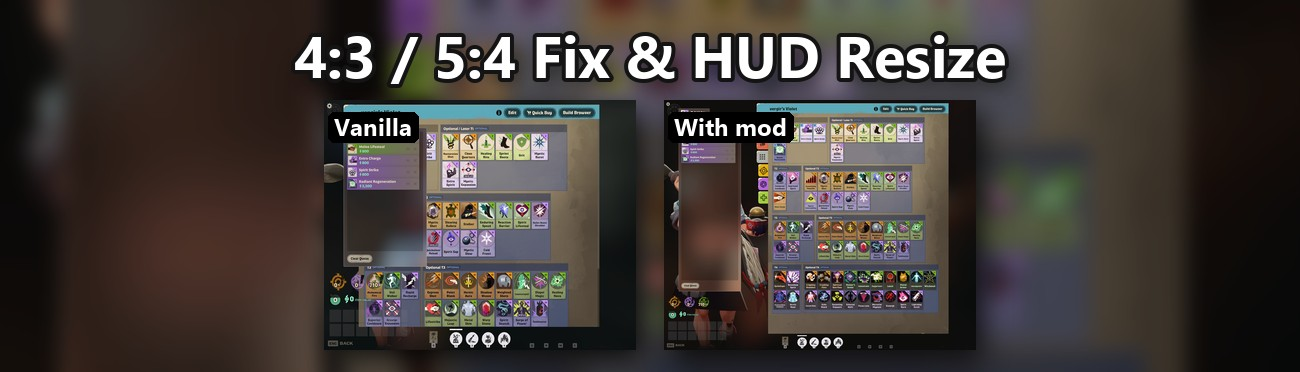
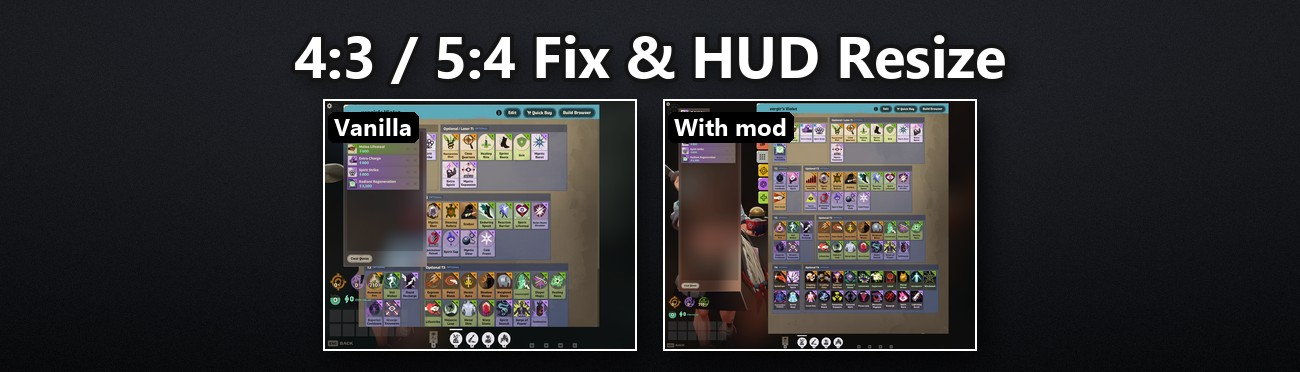
Gallery: neutral background, per-panel highlights, dialogue player
Comparisons sit on a plain dark backdrop with a thin edge instead of a blurred copy of the shot. The HUD image rings the minimap (oval in vanilla, round with the mod) and boxes the mod's health bar. Hero select and post-match graphs are dropped (vanilla handles them well); the dialogue player is added.

diff --git a/docs/make_images.py b/docs/make_images.py
@@ -36,7 +36,7 @@ FRAMES = {
 # 1.1.0 shots (5:4): the 2880x2304 game frame, top edge found from the Steam window around it
 for _k, _t in {"v_54_shop": 40, "v_54_catalog": 40, "v_54_roster": 34, "v_54_graphs": 47, "v_54_profile": 50,
                "v_54_hud": 34, "m_54_shop": 44, "m_54_catalog": 49, "m_54_roster": 43, "m_54_graphs": 37,
-               "m_54_profile": 43, "m_54_hud": 46}.items():
+               "m_54_profile": 43, "m_54_hud": 46, "m_54_dialogue": 37, "v_54_dialogue": 44}.items():
     FRAMES[_k] = (0, _t, 2878, _t + 2304)
 
 # Areas blurred before cropping (raw snip pixels): the author's friend code on the player page.
@@ -78,6 +78,11 @@ def box(img, b, k=1.0):
     ImageDraw.Draw(img).rounded_rectangle(b, round(14 * k), outline=GOLD, width=max(3, round(5 * k)))
 
 
+def ring(img, b, k=1.0):
+    """The same highlight as an ellipse (b is its bounding box), for round things like the minimap."""
+    ImageDraw.Draw(img).ellipse(b, outline=GOLD, width=max(3, round(5 * k)))
+
+
 def label(img, text, xy, size, anchor="la"):
     """White text on a dark pill."""
     d = ImageDraw.Draw(img, "RGBA")
@@ -97,12 +102,29 @@ def outlined(img, text, xy, size, anchor="mm"):
     ImageDraw.Draw(img).text(xy, text, font=f, fill="white", anchor=anchor, stroke_width=4, stroke_fill=(20, 20, 20))
 
 
-def shadowed_paste(dst, src, xy):
+def shadowed_paste(dst, src, xy, edge=False):
     x, y = xy
     sh = Image.new("RGBA", dst.size, (0, 0, 0, 0))
     ImageDraw.Draw(sh).rectangle((x + 6, y + 10, x + src.width + 6, y + src.height + 10), fill=(0, 0, 0, 210))
     dst.alpha_composite(sh.filter(ImageFilter.GaussianBlur(14)))
     dst.paste(src, (x, y))
+    if edge:   # a thin light frame so the shot's border reads against a dark background
+        ImageDraw.Draw(dst, "RGBA").rectangle((x - 1, y - 1, x + src.width, y + src.height),
+                                              outline=(255, 255, 255, 70), width=2)
+
+
+def neutral_backdrop(w=W, h=H):
+    """A plain dark backdrop: charcoal, a little lighter at the top, soft vignette and fine grain."""
+    y = np.linspace(0, 1, h)[:, None, None]
+    x = np.linspace(-1, 1, w)[None, :, None]
+    base = np.array([38, 41, 47]) * (1 - y) + np.array([15, 16, 19]) * y
+    r = np.sqrt(x ** 2 + ((y - 0.45) * 1.7) ** 2)
+    base = base * (1 - 0.35 * np.clip(r - 0.35, 0, 1))
+    base = base + np.random.default_rng(1).normal(0, 2.0, (h, w, 1))
+    return Image.fromarray(np.clip(base, 0, 255).astype(np.uint8)).convert("RGBA")
+
+
+STYLE = "neutral"   # "blur": a blurred copy of the shot behind the pair; "neutral": the plain dark backdrop
 
 
 def backdrop(key, dim=0.7, blur=10):
@@ -121,20 +143,23 @@ def save(img, name):
     print(f"{name:22} {img.width}x{img.height} {os.path.getsize(os.path.join(OUT, name)) // 1024:5} KB")
 
 
-def pair(keys, labels, out, title, crop=None, boxes=(), top=150, gap=40, margin=40, bright=1.0):
-    """Two shots side by side on a blurred backdrop, labelled; crop and boxes are in raw frame pixels."""
-    img = backdrop(keys[1])
+def pair(keys, labels, out, title, crop=None, boxes=(), top=150, gap=40, margin=40, bright=1.0, marks=((), ())):
+    """Two shots side by side on a backdrop (STYLE), labelled; crop, boxes (on both panels) and marks (per panel:
+    ("box" | "ring", bounds)) are in raw frame pixels."""
+    neutral = STYLE == "neutral"
+    img = neutral_backdrop() if neutral else backdrop(keys[1])
     ims = [shot(k).crop(crop) if crop else shot(k) for k in keys]
     s = min((W - 2 * margin - gap) / (2 * ims[0].width), (H - top - margin) / ims[0].height)
     pw, ph = round(ims[0].width * s), round(ims[0].height * s)
     x = (W - 2 * pw - gap) // 2
     y = top + (H - top - margin - ph) // 2
-    for im, lbl in zip(ims, labels):
+    ox, oy = (crop[0], crop[1]) if crop else (0, 0)
+    for im, lbl, own in zip(ims, labels, marks):
         p = ImageEnhance.Brightness(im.resize((pw, ph), Image.LANCZOS)).enhance(bright).convert("RGBA")
-        for b in boxes:
-            ox, oy = (crop[0], crop[1]) if crop else (0, 0)
-            box(p, tuple(round((v - o) * s) for v, o in zip(b, (ox, oy, ox, oy))), ph / 1080)
-        shadowed_paste(img, p, (x, y))
+        for kind, b in [("box", b) for b in boxes] + list(own):
+            (ring if kind == "ring" else box)(p, tuple(round((v - o) * s) for v, o in zip(b, (ox, oy, ox, oy))),
+                                              ph / 1080)
+        shadowed_paste(img, p, (x, y), edge=neutral)
         label(img, lbl, (x + 18, y + 18), 44)
         x += pw + gap
     if title.startswith("#"):
@@ -145,10 +170,31 @@ def pair(keys, labels, out, title, crop=None, boxes=(), top=150, gap=40, margin=
     return img
 
 
-# Health bar at size 1.0: 1.5 px per HUD unit, container at x 315, 300 wide, 456 tall, 20 above the bottom of the
-# canvas (1440 units tall on 4:3, 1536 on 5:4).
-HEALTH_43 = (440, 1430, 960, 2150)
-HEALTH_54 = (440, 1574, 960, 2294)
+def split(keys, labels, out, title, anchor_y=1.0, slant=220, boxes=()):
+    """One 16:9 picture of the same scene: vanilla left of a slanted line, the mod right of it. Both shots cover the
+    frame at the same scale (anchor_y 0 = keep the top, 1 = keep the bottom); boxes are in raw frame pixels."""
+    ims = [shot(k) for k in keys]
+    s = max(W / ims[0].width, H / ims[0].height)
+    sw, shh = round(ims[0].width * s), round(ims[0].height * s)
+    ox, oy = (sw - W) // 2, round((shh - H) * anchor_y)
+    a, b = (im.resize((sw, shh), Image.LANCZOS).crop((ox, oy, ox + W, oy + H)).convert("RGBA") for im in ims)
+    for p in (a, b):
+        for bx in boxes:
+            box(p, tuple(round(v * s) - o for v, o in zip(bx, (ox, oy, ox, oy))), 1.0)
+    top, bottom = W // 2 + slant // 2, W // 2 - slant // 2
+    mask = Image.new("L", (W, H), 0)
+    ImageDraw.Draw(mask).polygon([(0, 0), (top, 0), (bottom, H), (0, H)], fill=255)
+    img = b.copy()
+    img.paste(a, (0, 0), mask)
+    line = Image.new("RGBA", (W, H), (0, 0, 0, 0))
+    ImageDraw.Draw(line).line([(top, 0), (bottom, H)], fill=(0, 0, 0, 200), width=14)
+    img.alpha_composite(line.filter(ImageFilter.GaussianBlur(6)))
+    ImageDraw.Draw(img).line([(top, 0), (bottom, H)], fill=GOLD, width=5)
+    label(img, labels[0], (40, 150), 44)
+    label(img, labels[1], (W - 40, 150), 44, anchor="ra")
+    label(img, title, (W // 2, 70), 56, anchor="mm")
+    save(img, out)
+    return img
 
 
 def main_image():
@@ -161,18 +207,14 @@ def header():
     the only image that is committed."""
     hw, hh = 1300, 372
     im = shot("m_54_shop")
-    s = max(hw / im.width, hh / im.height)
-    bg = im.resize((round(im.width * s), round(im.height * s)), Image.LANCZOS)
-    y0 = (bg.height - hh) // 2
-    img = ImageEnhance.Brightness(bg.crop((0, y0, hw, y0 + hh)).filter(ImageFilter.GaussianBlur(10))).enhance(0.7)
-    img = img.convert("RGBA")
+    img = neutral_backdrop(hw, hh)
     outlined(img, TITLE, (hw // 2, 54), 58)
     ph, gap = 250, 28
     pw = round(ph * im.width / im.height)
     x = (hw - 2 * pw - gap) // 2
     for k, lbl in (("v_54_shop", "Vanilla"), ("m_54_shop", "With mod")):
         p = shot(k).resize((pw, ph), Image.LANCZOS).convert("RGBA")
-        shadowed_paste(img, p, (x, 100))
+        shadowed_paste(img, p, (x, 100), edge=True)
         label(img, lbl, (x + 10, 110), 24)
         x += pw + gap
     save(img, "header.jpg")
@@ -189,7 +231,7 @@ CORNERS_169 = {"s07_169_hud": (0, 600, 1346, 1620), "m_169_hud": (0, 600, 1306, 
 
 def sizes():
     """16:9 at size 0.7 / 1.0 / 1.3: the bottom-left corner of each frame as separate panels on a blurred backdrop."""
-    img = backdrop("m_169_hud")
+    img = neutral_backdrop()
     top, margin, gap = 150, 30, 30
     items = (("s07_169_hud", "Size 0.7"), ("m_169_hud", "Size 1.0 = vanilla"), ("s13_169_hud", "Size 1.3"))
     widths = [CORNERS_169[k][2] - CORNERS_169[k][0] for k, _ in items]
@@ -201,11 +243,11 @@ def sizes():
     for (k, lbl), cw in zip(items, widths):
         pw = round(cw * s)
         p = shot(k).crop(CORNERS_169[k]).resize((pw, ph), Image.LANCZOS).convert("RGBA")
-        shadowed_paste(img, p, (x, y))
+        shadowed_paste(img, p, (x, y), edge=True)
         label(img, lbl, (x + 16, y + 16), 40)
         x += pw + gap
     label(img, "16:9: pick your HUD size (0.5 to 1.5)", (W // 2, top // 2), 56, anchor="mm")
-    save(img, "07_sizes.jpg")
+    save(img, "06_sizes.jpg")
 
 
 def thumbs(img):
@@ -216,18 +258,28 @@ def thumbs(img):
     print(f"tile brightness {g.mean():.3f} (reference tiles 0.24), contrast {g.std():.3f}")
 
 
+# 5:4 HUD shots (frame pixels): the minimap is a tall oval in vanilla and a smaller circle with the mod; the health
+# bar only exists with the mod (vanilla pushes it off screen)
+MAP_V54 = (2050, 1340, 2830, 2265)
+MAP_M54 = (2245, 1655, 2855, 2265)
+HEALTH_M54 = (600, 1655, 905, 2105)
+
 if __name__ == "__main__":
-    for stale in ("02_43_hud.jpg", "03_43_shop.jpg", "04_54_hud.jpg", "05_sizes.jpg"):   # the 1.0 gallery
+    for stale in ("02_43_hud.jpg", "03_43_shop.jpg", "04_54_hud.jpg", "05_sizes.jpg", "04_54_roster.jpg",
+                  "05_54_graphs.jpg", "06_54_profile.jpg", "07_sizes.jpg"):   # earlier galleries
         if os.path.exists(os.path.join(OUT, stale)):
             os.remove(os.path.join(OUT, stale))
     tile = main_image()
     header()
     v_m = ("Vanilla", "With mod")
-    pair(("v_54_hud", "m_54_hud"), v_m, "02_54_hud.jpg", "5:4: the health bar is back", boxes=[HEALTH_54])
+    pair(("v_54_hud", "m_54_hud"), v_m, "02_54_hud.jpg", "5:4: health bar back, HUD no longer stretched",
+         marks=((("ring", MAP_V54),), (("box", HEALTH_M54), ("ring", MAP_M54))))
     pair(("v_54_catalog", "m_54_catalog"), v_m, "03_54_items.jpg", "5:4 shop: the item pages use the full height")
-    pair(("v_54_roster", "m_54_roster"), v_m, "04_54_roster.jpg", "Hero select: larger hero cards")
-    pair(("v_54_graphs", "m_54_graphs"), v_m, "05_54_graphs.jpg", "Post-match graphs use the full height")
-    pair(("v_54_profile", "m_54_profile"), v_m, "06_54_profile.jpg", "Player page: nothing cut off")
+    if os.path.exists(os.path.join(RAW, "v_54_dialogue.png")):
+        # the vanilla snip ends 140 px above the frame's bottom (only the ESC BACK row): both cropped to match
+        pair(("v_54_dialogue", "m_54_dialogue"), v_m, "04_54_dialogue.jpg",
+             "Dialogue player: more lines on screen", crop=(0, 0, 2878, 2164))
+    pair(("v_54_profile", "m_54_profile"), v_m, "05_54_profile.jpg", "Player page: nothing cut off")
     sizes()
     if "--thumbs" in sys.argv:
         thumbs(tile)
